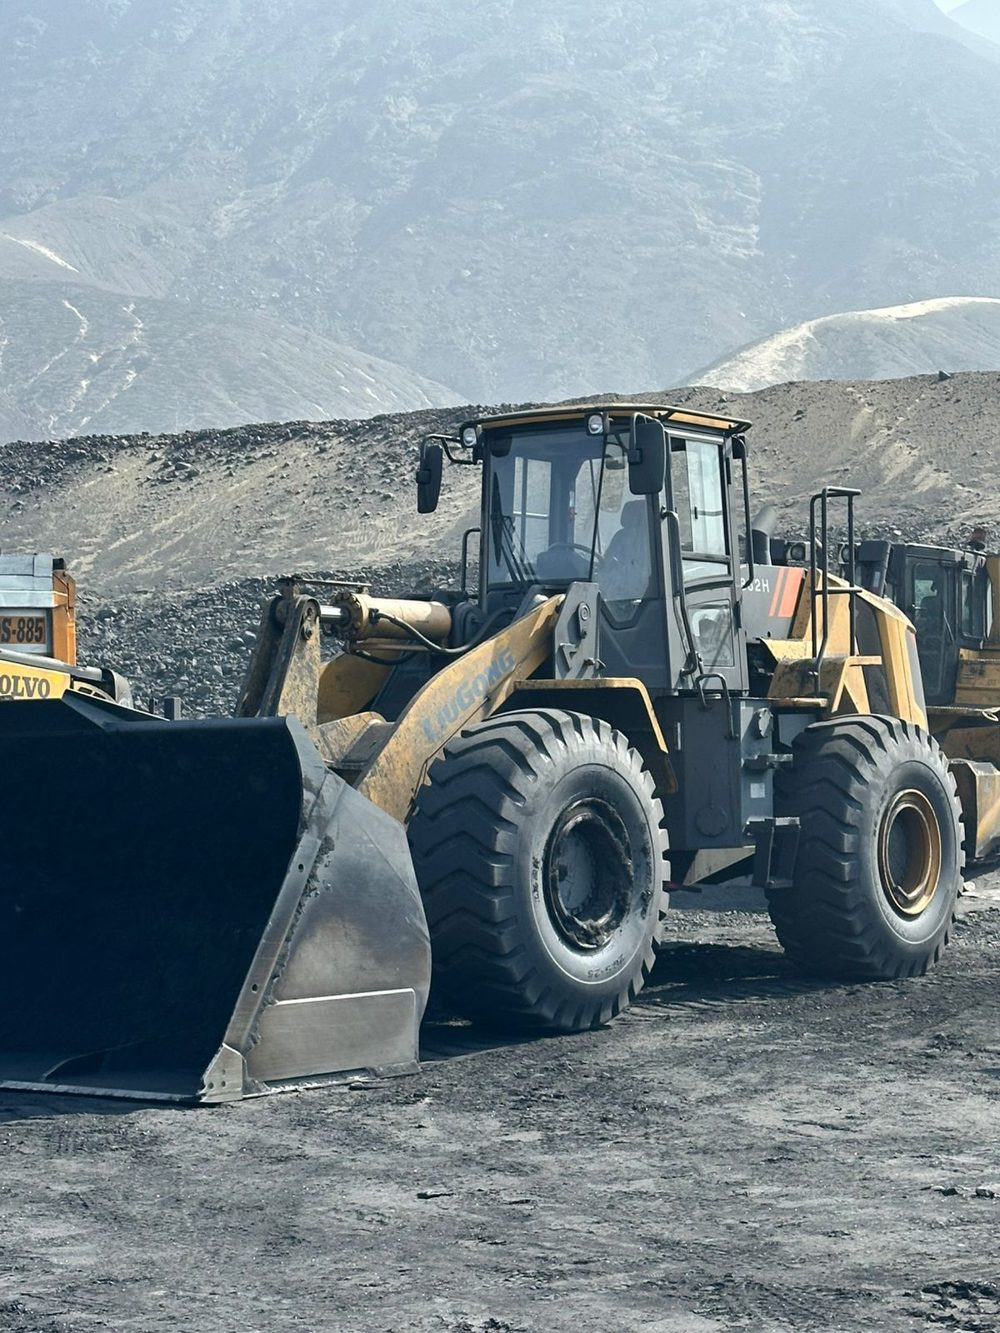
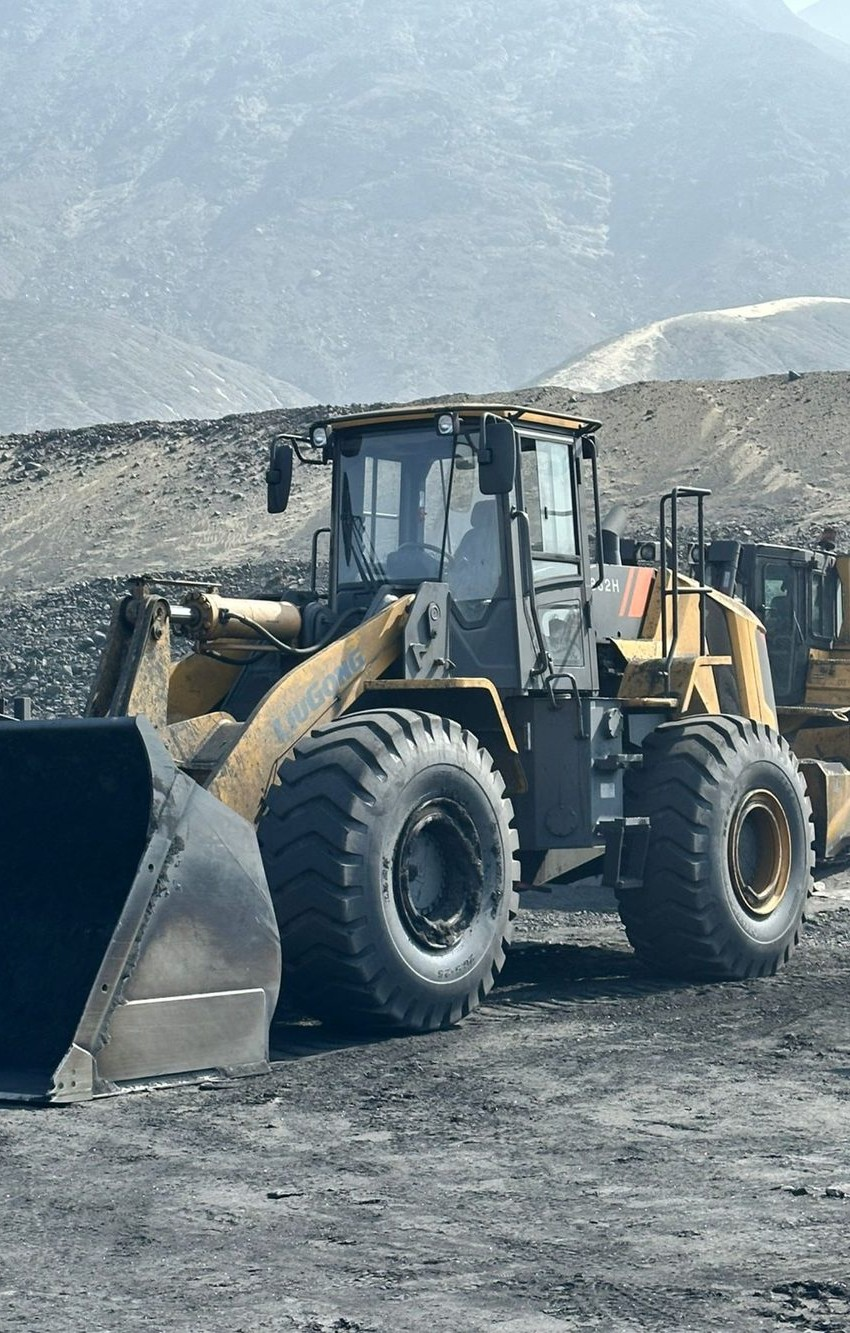
feat(home): rediseno seccion Servicios (Ag.6) en index.html
- Reemplaza .services-grid/.service-card por el manifiesto .servicios (foto + 4 filas)
- Reglas [data-reveal] acotadas a .servicios (engancha al IntersectionObserver existente de main.js)
- Foto servicios-flota.jpg recortada 150px del borde izq. para quitar una placa vehicular visible (aprobado por founder)
- Fix typo: 'sierra libereña' -> 'sierra liberteña'; alt corregido a la escena real (cargador frontal en cantera)

diff --git a/index.html b/index.html
@@ -276,110 +276,61 @@
     </section>
 
     <!-- =========================================================
-         SERVICIOS PREVIEW
+         SERVICIOS (rediseño Ag.6 · 07/2026)
          ========================================================= -->
-    <section class="section section--ice" aria-labelledby="services-title">
-      <div class="container">
-
-        <div class="section-header" data-reveal>
-          <h2 class="section-title" id="services-title">
-            Soluciones de transporte para<br>operaciones corporativas exigentes
-          </h2>
-        </div>
-
-        <div class="services-grid">
-
-          <article class="service-card" data-reveal data-reveal-delay="0">
-            <div class="service-card__icon-wrap">
-              <svg width="32" height="32" viewBox="0 0 24 24" fill="none" stroke="currentColor" stroke-width="1.6" stroke-linecap="round" stroke-linejoin="round" aria-hidden="true">
-                <rect x="1" y="3" width="15" height="13" rx="1"/>
-                <path d="M16 8h4l3 3v5h-7V8z"/>
-                <circle cx="5.5" cy="18.5" r="2.5"/>
-                <circle cx="18.5" cy="18.5" r="2.5"/>
-              </svg>
+    <section class="servicios" id="servicios" aria-labelledby="servicios-heading">
+      <div class="servicios__intro">
+        <span class="servicios__eyebrow">Qué hacemos</span>
+        <h2 id="servicios-heading" class="servicios__heading">Soluciones de transporte para operaciones corporativas exigentes</h2>
+      </div>
+      <div class="servicios__body">
+        <figure class="servicios__photo">
+          <img src="assets/images/servicios-flota.jpg" loading="lazy" class="servicios__photo-img"
+               alt="Maquinaria pesada —cargador frontal— en una operación de carga en cantera">
+          <div class="servicios__photo-overlay" aria-hidden="true"></div>
+          <figcaption class="servicios__photo-chip">
+            <span class="servicios__photo-chip-value">28</span>
+            <span class="servicios__photo-chip-label">unidades en flota</span>
+          </figcaption>
+        </figure>
+        <ol class="servicios__manifest">
+          <li class="servicios__row" data-reveal>
+            <span class="servicios__row-index">01</span>
+            <span class="servicios__row-icon" aria-hidden="true"><svg viewBox="0 0 28 28" fill="none" stroke="currentColor" stroke-width="1.75" stroke-linecap="round" stroke-linejoin="round"><rect x="4" y="7" width="20" height="16" rx="1.5"/><path d="M4 12h20"/><path d="M14 12v11"/><path d="M4 7l4-4h12l4 4"/></svg></span>
+            <div class="servicios__row-copy">
+              <h3 class="servicios__row-title">Transporte de carga general</h3>
+              <p class="servicios__row-desc">Mercadería en contenedores, pallets o carga suelta con guías de remisión y SUNAT en regla. Cobertura a nivel nacional.</p>
             </div>
-            <div class="service-card__content">
-              <h3 class="service-card__title">Transporte de carga general</h3>
-              <p class="service-card__desc">
-                Mercadería en contenedores, pallets o carga suelta con guías de
-                remisión y SUNAT en regla. Cobertura a nivel nacional.
-              </p>
-              <a href="servicios.html#general" class="service-card__link">
-                Ver detalle
-                <svg width="16" height="16" viewBox="0 0 24 24" fill="none" stroke="currentColor" stroke-width="2.5" stroke-linecap="round" stroke-linejoin="round" aria-hidden="true"><path d="m9 18 6-6-6-6"/></svg>
-              </a>
+            <a href="servicios.html#general" class="servicios__row-link">Ver detalle<span aria-hidden="true"> →</span></a>
+          </li>
+          <li class="servicios__row" data-reveal>
+            <span class="servicios__row-index">02</span>
+            <span class="servicios__row-icon" aria-hidden="true"><svg viewBox="0 0 28 28" fill="none" stroke="currentColor" stroke-width="1.75" stroke-linecap="round" stroke-linejoin="round"><path d="M5 5h18"/><path d="M14 5v9"/><path d="M11 14a3 3 0 0 0 6 0"/><path d="M14 17v2"/><rect x="8" y="19" width="12" height="5" rx="1"/></svg></span>
+            <div class="servicios__row-copy">
+              <h3 class="servicios__row-title">Carga pesada e industrial</h3>
+              <p class="servicios__row-desc">Maquinaria, equipos industriales y cargas de gran tonelaje. Grúas y equipos de maniobra disponibles para carga/descarga.</p>
             </div>
-          </article>
-
-          <article class="service-card" data-reveal data-reveal-delay="80">
-            <div class="service-card__icon-wrap">
-              <svg width="32" height="32" viewBox="0 0 24 24" fill="none" stroke="currentColor" stroke-width="1.6" stroke-linecap="round" stroke-linejoin="round" aria-hidden="true">
-                <path d="M14 9V5a3 3 0 0 0-3-3l-4 9v11h11.28a2 2 0 0 0 2-1.7l1.38-9a2 2 0 0 0-2-2.3H14z"/>
-                <path d="M7 22H4a2 2 0 0 1-2-2v-7a2 2 0 0 1 2-2h3"/>
-              </svg>
+            <a href="servicios.html#industrial" class="servicios__row-link">Ver detalle<span aria-hidden="true"> →</span></a>
+          </li>
+          <li class="servicios__row" data-reveal>
+            <span class="servicios__row-index">03</span>
+            <span class="servicios__row-icon" aria-hidden="true"><svg viewBox="0 0 28 28" fill="none" stroke="currentColor" stroke-width="1.75" stroke-linecap="round" stroke-linejoin="round"><circle cx="5" cy="21" r="2"/><circle cx="14" cy="8" r="2"/><circle cx="23" cy="21" r="2"/><path d="M6.6 19.6L12.6 9.8"/><path d="M15.4 9.8L21.4 19.6"/></svg></span>
+            <div class="servicios__row-copy">
+              <h3 class="servicios__row-title">Distribución regional</h3>
+              <p class="servicios__row-desc">Rutas periódicas Lima, Trujillo, sierra liberteña y operaciones locales en Piura. Programación semanal con ventanas horarias definidas.</p>
             </div>
-            <div class="service-card__content">
-              <h3 class="service-card__title">Carga pesada e industrial</h3>
-              <p class="service-card__desc">
-                Maquinaria, equipos industriales y cargas de gran tonelaje.
-                Grúas y equipos de maniobra disponibles para carga/descarga.
-              </p>
-              <a href="servicios.html#industrial" class="service-card__link">
-                Ver detalle
-                <svg width="16" height="16" viewBox="0 0 24 24" fill="none" stroke="currentColor" stroke-width="2.5" stroke-linecap="round" stroke-linejoin="round" aria-hidden="true"><path d="m9 18 6-6-6-6"/></svg>
-              </a>
+            <a href="servicios.html#regional" class="servicios__row-link">Ver detalle<span aria-hidden="true"> →</span></a>
+          </li>
+          <li class="servicios__row" data-reveal>
+            <span class="servicios__row-index">04</span>
+            <span class="servicios__row-icon" aria-hidden="true"><svg viewBox="0 0 28 28" fill="none" stroke="currentColor" stroke-width="1.75" stroke-linecap="round" stroke-linejoin="round"><circle cx="14" cy="20" r="1.7" fill="currentColor" stroke="none"/><path d="M9.5 15.5a6.5 6.5 0 0 1 9 0"/><path d="M6 12a10.5 10.5 0 0 1 16 0"/></svg></span>
+            <div class="servicios__row-copy">
+              <h3 class="servicios__row-title">Transporte con monitoreo</h3>
+              <p class="servicios__row-desc">Servicio premium con rastreo GPS en tiempo real, reportes de posición y alertas automáticas por desvío de ruta.</p>
             </div>
-          </article>
-
-          <article class="service-card" data-reveal data-reveal-delay="160">
-            <div class="service-card__icon-wrap">
-              <svg width="32" height="32" viewBox="0 0 24 24" fill="none" stroke="currentColor" stroke-width="1.6" stroke-linecap="round" stroke-linejoin="round" aria-hidden="true">
-                <path d="M21 10c0 7-9 13-9 13s-9-6-9-13a9 9 0 0 1 18 0z"/>
-                <circle cx="12" cy="10" r="3"/>
-              </svg>
-            </div>
-            <div class="service-card__content">
-              <h3 class="service-card__title">Distribución regional</h3>
-              <p class="service-card__desc">
-                Rutas periódicas Lima, Trujillo, sierra liberteña y operaciones locales en Piura.
-                Programación semanal con ventanas horarias definidas.
-              </p>
-              <a href="servicios.html#regional" class="service-card__link">
-                Ver detalle
-                <svg width="16" height="16" viewBox="0 0 24 24" fill="none" stroke="currentColor" stroke-width="2.5" stroke-linecap="round" stroke-linejoin="round" aria-hidden="true"><path d="m9 18 6-6-6-6"/></svg>
-              </a>
-            </div>
-          </article>
-
-          <article class="service-card" data-reveal data-reveal-delay="240">
-            <div class="service-card__icon-wrap">
-              <svg width="32" height="32" viewBox="0 0 24 24" fill="none" stroke="currentColor" stroke-width="1.6" stroke-linecap="round" stroke-linejoin="round" aria-hidden="true">
-                <path d="M12 2C8.13 2 5 5.13 5 9c0 5.25 7 13 7 13s7-7.75 7-13c0-3.87-3.13-7-7-7z"/>
-                <circle cx="12" cy="9" r="2.5"/>
-              </svg>
-            </div>
-            <div class="service-card__content">
-              <h3 class="service-card__title">Transporte con monitoreo</h3>
-              <p class="service-card__desc">
-                Servicio premium con rastreo GPS en tiempo real, reportes de
-                posición y alertas automáticas por desvío de ruta.
-              </p>
-              <a href="servicios.html#monitoreo" class="service-card__link">
-                Ver detalle
-                <svg width="16" height="16" viewBox="0 0 24 24" fill="none" stroke="currentColor" stroke-width="2.5" stroke-linecap="round" stroke-linejoin="round" aria-hidden="true"><path d="m9 18 6-6-6-6"/></svg>
-              </a>
-            </div>
-          </article>
-
-        </div>
-
-        <div class="services-cta" data-reveal>
-          <a href="servicios.html" class="btn btn--outline-navy">
-            Ver todos los servicios
-            <svg width="18" height="18" viewBox="0 0 24 24" fill="none" stroke="currentColor" stroke-width="2.5" stroke-linecap="round" stroke-linejoin="round" aria-hidden="true"><path d="m9 18 6-6-6-6"/></svg>
-          </a>
-        </div>
-
+            <a href="servicios.html#monitoreo" class="servicios__row-link">Ver detalle<span aria-hidden="true"> →</span></a>
+          </li>
+        </ol>
       </div>
     </section>
 

diff --git a/css/home.css b/css/home.css
@@ -368,98 +368,54 @@
 
 
 /* ============================================================
-   SERVICIOS PREVIEW
+   SERVICIOS (rediseño Ag.6 · 07/2026)
+   Reemplaza el bloque .services-grid / .service-card anterior.
+   Nota Ag.3: reglas [data-reveal] acotadas a .servicios (evita afectar
+   el resto del home; el observer de main.js añade .is-visible).
    ============================================================ */
-.services-grid {
-  display: grid;
-  grid-template-columns: repeat(2, 1fr);
-  gap: var(--sp-5);
-  margin-bottom: var(--sp-10);
-}
-
-.service-card {
-  display: flex;
-  gap: var(--sp-5);
-  padding: var(--sp-7);
-  background: var(--ad-white);
-  border-radius: var(--r-xl);
-  border: 1px solid rgba(10,34,64,0.08);
-  text-decoration: none;
-  transition: transform var(--dur-base) var(--ease-out),
-              box-shadow var(--dur-base) var(--ease-out);
-}
-
-.service-card:hover {
-  border-color: rgba(42,128,200,0.35);
-  box-shadow: var(--shadow-sm);
-}
-
-.service-card__icon-wrap {
-  width: 48px;
-  height: 48px;
-  border-radius: var(--r-md);
-  background: var(--ad-ice);
-  border: 1px solid rgba(42,128,200,0.2);
-  display: flex;
-  align-items: center;
-  justify-content: center;
-  color: var(--ad-navy);
-  flex-shrink: 0;
-}
-
-.service-card__content {
-  flex: 1;
-}
-
-.service-card__title {
-  font-family: var(--font-heading);
-  font-size: var(--fs-md);
-  font-weight: 600;
-  color: var(--ad-navy);
-  margin-bottom: var(--sp-2);
-  line-height: 1.3;
-}
-
-.service-card__desc {
-  font-size: var(--fs-sm);
-  color: var(--ad-slate);
-  line-height: 1.65;
-  margin-bottom: var(--sp-4);
-}
-
-.service-card__link {
-  display: inline-flex;
-  align-items: center;
-  gap: var(--sp-1);
-  font-family: var(--font-heading);
-  font-size: var(--fs-sm);
-  font-weight: 600;
-  color: var(--ad-sky);
-  text-decoration: none;
-  transition: gap var(--dur-fast);
-}
-
-.service-card__link:hover {
-  gap: var(--sp-2);
-}
-
-.services-cta {
-  text-align: center;
-}
-
+.servicios { background: #FFFFFF; padding-block: clamp(3rem, 6vw, 6rem); }
+.servicios__intro { max-width: 42rem; margin-bottom: clamp(2rem, 4vw, 3.5rem); }
+.servicios__eyebrow { font-family: var(--font-body, 'Source Sans 3', sans-serif); font-size: .8rem; font-weight: 600; letter-spacing: .08em; text-transform: uppercase; color: var(--color-sky, #2A80C8); }
+.servicios__heading { font-family: var(--font-display, 'Barlow Condensed', sans-serif); font-size: clamp(2rem, 3.5vw, 3rem); color: var(--color-navy, #0A2240); margin: .5rem 0 0; }
+.servicios__body { display: grid; grid-template-columns: minmax(260px, 38%) 1fr; gap: clamp(2rem, 4vw, 3.5rem); align-items: stretch; }
+.servicios__photo { position: relative; overflow: hidden; min-height: 480px; clip-path: polygon(0 0, 100% 0, 88% 100%, 0 100%); }
+.servicios__photo-img { width: 100%; height: 100%; object-fit: cover; display: block; }
+.servicios__photo-overlay { position: absolute; inset: 0; background: linear-gradient(115deg, var(--color-navy, #0A2240) 12%, rgba(10,34,64,.55) 45%, rgba(10,34,64,.12) 75%); }
+.servicios__photo-chip { position: absolute; left: 1.5rem; bottom: 1.5rem; display: flex; align-items: baseline; gap: .5rem; padding: .75rem 1.1rem; border: 1px solid rgba(255,255,255,.18); color: #fff; backdrop-filter: blur(14px) saturate(140%); -webkit-backdrop-filter: blur(14px) saturate(140%); background: rgba(10,34,64,.35); }
+.servicios__photo-chip-value { font-family: var(--font-display, 'Barlow Condensed', sans-serif); font-size: 1.75rem; font-weight: 600; line-height: 1; }
+.servicios__photo-chip-label { font-family: var(--font-body, 'Source Sans 3', sans-serif); font-size: .7rem; text-transform: uppercase; letter-spacing: .06em; opacity: .85; }
+@media (prefers-reduced-transparency: reduce) { .servicios__photo-chip { background: var(--color-navy, #0A2240); backdrop-filter: none; -webkit-backdrop-filter: none; } }
+.servicios__manifest { list-style: none; margin: 0; padding: 0; }
+.servicios__row { display: grid; grid-template-columns: auto auto 1fr auto; align-items: center; gap: 1.25rem 1.5rem; padding: 1.75rem 0; border-top: 1px solid rgba(10,34,64,.12); transition: background-color .25s ease; }
+.servicios__row:last-child { border-bottom: 1px solid rgba(10,34,64,.12); }
+.servicios__row:hover, .servicios__row:focus-within { background-color: rgba(42,128,200,.06); }
+.servicios__row-index { font-family: var(--font-display, 'Barlow Condensed', sans-serif); font-size: 2.5rem; font-weight: 600; line-height: 1; color: var(--color-amber-deep, #C06A1E); min-width: 2.2ch; }
+.servicios__row-icon { width: 2rem; height: 2rem; color: var(--color-navy, #0A2240); flex-shrink: 0; }
+.servicios__row-icon svg { width: 100%; height: 100%; }
+.servicios__row-copy { min-width: 0; }
+.servicios__row-title { font-family: var(--font-display, 'Barlow Condensed', sans-serif); font-size: clamp(1.2rem, 1.6vw, 1.5rem); font-weight: 600; text-transform: uppercase; letter-spacing: .01em; color: var(--color-navy, #0A2240); margin: 0 0 .35rem; }
+.servicios__row-desc { font-family: var(--font-body, 'Source Sans 3', sans-serif); font-size: .95rem; line-height: 1.5; max-width: 52ch; color: #3C4A5C; margin: 0; }
+.servicios__row-link { font-family: var(--font-body, 'Source Sans 3', sans-serif); font-size: .875rem; font-weight: 600; color: var(--color-cta, #1B4F8A); text-decoration: none; white-space: nowrap; display: inline-flex; align-items: center; gap: .35rem; }
+.servicios__row-link:hover, .servicios__row-link:focus-visible { color: var(--color-sky, #2A80C8); }
+.servicios__row-link span { display: inline-block; transition: transform .2s ease; }
+.servicios__row:hover .servicios__row-link span, .servicios__row:focus-within .servicios__row-link span { transform: translateX(3px); }
+.servicios [data-reveal] { opacity: 0; transform: translateY(16px); transition: opacity .5s ease, transform .5s ease; }
+.servicios [data-reveal].is-visible { opacity: 1; transform: translateY(0); }
+.servicios__row:nth-child(1)[data-reveal] { transition-delay: 0ms; }
+.servicios__row:nth-child(2)[data-reveal] { transition-delay: 80ms; }
+.servicios__row:nth-child(3)[data-reveal] { transition-delay: 160ms; }
+.servicios__row:nth-child(4)[data-reveal] { transition-delay: 240ms; }
+@media (prefers-reduced-motion: reduce) { .servicios [data-reveal] { opacity: 1; transform: none; transition: none; } }
 @media (max-width: 768px) {
-  .services-grid {
-    grid-template-columns: 1fr;
-    gap: var(--sp-4);
-  }
-}
-
-@media (max-width: 480px) {
-  .service-card {
-    flex-direction: column;
-    gap: var(--sp-4);
-    padding: var(--sp-5);
-  }
+  .servicios__body { grid-template-columns: 1fr; gap: 1.5rem; }
+  .servicios__photo { min-height: 200px; clip-path: polygon(0 0, 100% 0, 100% 100%, 0 90%); }
+  .servicios__photo-chip { left: 1rem; bottom: 1rem; padding: .6rem .85rem; }
+  .servicios__photo-chip-value { font-size: 1.4rem; }
+  .servicios__row { grid-template-columns: auto 1fr; grid-template-areas: "index icon" "copy copy" "link link"; row-gap: .6rem; }
+  .servicios__row-index { grid-area: index; font-size: 1.9rem; }
+  .servicios__row-icon { grid-area: icon; justify-self: start; width: 1.75rem; height: 1.75rem; }
+  .servicios__row-copy { grid-area: copy; }
+  .servicios__row-link { grid-area: link; min-height: 44px; align-items: center; }
 }
 
 
